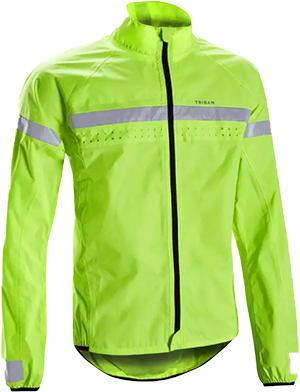
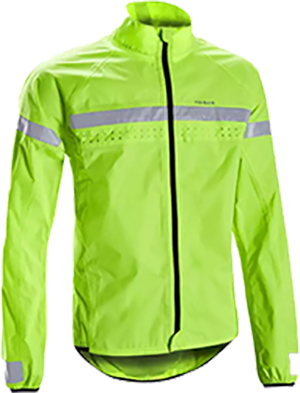
Change pictures size

diff --git a/index.html b/index.html
@@ -82,9 +82,11 @@
               <img src="../images/jackets/smaller-women-jackets/raincut-wtp.png"
                 alt="Picture of woman's jacket Raincut WTP">
             </div>
-            <h3 class="item__product-name">Raincut Wtp</h3>
-            <p class="item__product-price">999 nok</p>
-            <a href="#" title="Raincut Wtp" class="btn btn__show-item">Show Item</a>
+            <div>
+              <h3 class="item__product-name">Raincut Wtp</h3>
+              <p class="item__product-price">999 nok</p>
+              <a href="#" title="Raincut Wtp" class="btn btn__show-item">Show Item</a>
+            </div>
           </div>
 
           <div class="item hide show">
@@ -92,18 +94,22 @@
               <img src="../images/jackets/smaller-women-jackets/sailing-5000.png"
                 alt="Picture of woman's jacket Sailing 5000">
             </div>
-            <h3 class="item__product-name">Sailing 5000</h3>
-            <p class="item__product-price">1099 nok</p>
-            <a href="#" title="Sailing 5000" class="btn btn__show-item">Show Item</a>
+            <div>
+              <h3 class="item__product-name">Sailing 5000</h3>
+              <p class="item__product-price">1099 nok</p>
+              <a href="#" title="Sailing 5000" class="btn btn__show-item">Show Item</a>
+            </div>
           </div>
 
           <div class="item hide show">
             <div class="item__picture">
               <img src="../images/jackets/smaller-women-jackets/mh-9000.png" alt="Picture of woman's jacket Mh 9000">
             </div>
-            <h3 class="item__product-name">Raincut Wtp</h3>
-            <p class="item__product-price">799 nok</p>
-            <a href="#" title="Raincut Wtp" class="btn btn__show-item">Show Item</a>
+            <div>
+              <h3 class="item__product-name">Raincut Wtp</h3>
+              <p class="item__product-price">799 nok</p>
+              <a href="#" title="Raincut Wtp" class="btn btn__show-item">Show Item</a>
+            </div>
           </div>
 
           <div class="item hide show">
@@ -111,9 +117,11 @@
               <img src="../images/jackets/smaller-mens-jackets/offshore-900.png"
                 alt="Picture of man's jacket Offshore 900">
             </div>
-            <h3 class="item__product-name">Offshore 900</h3>
-            <p class="item__product-price">999 nok</p>
-            <a href="#" title="Offshore 900" class="btn btn__show-item">Show Item</a>
+            <div>
+              <h3 class="item__product-name">Offshore 900</h3>
+              <p class="item__product-price">999 nok</p>
+              <a href="#" title="Offshore 900" class="btn btn__show-item">Show Item</a>
+            </div>
           </div>
 
           <div class="item hide">
@@ -121,9 +129,11 @@
               <img src="../images/jackets/smaller-mens-jackets/nh-100-raincut.png"
                 alt="Picture of man's jacket Nh 100 Raincut">
             </div>
-            <h3 class="item__product-name">Nh 100 Raincut</h3>
-            <p class="item__product-price">799 nok</p>
-            <a href="#" title="Nh 100 Raincut" class="btn btn__show-item">Show Item</a>
+            <div>
+              <h3 class="item__product-name">Nh 100 Raincut</h3>
+              <p class="item__product-price">799 nok</p>
+              <a href="#" title="Nh 100 Raincut" class="btn btn__show-item">Show Item</a>
+            </div>
           </div>
 
           <div class="item hide">
@@ -131,45 +141,55 @@
               <img src="../images/jackets/smaller-mens-jackets/tour-jacket-outline.png"
                 alt="Picture of man's jacket Tour Jacket Outlne">
             </div>
-            <h3 class="item__product-name">Tour Outline</h3>
-            <p class="item__product-price">1099 nok</p>
-            <a href="#" title="Tour Outline" class="btn btn__show-item">Show Item</a>
+            <div>
+              <h3 class="item__product-name">Tour Outline</h3>
+              <p class="item__product-price">1099 nok</p>
+              <a href="#" title="Tour Outline" class="btn btn__show-item">Show Item</a>
+            </div>
           </div>
 
           <div class="item hide">
             <div class="item__picture">
               <img src="../images/jackets/smaller-raincoats/raincoat-forza.png" alt="Picture of Raincoat Forza">
             </div>
-            <h3 class="item__product-name">Raincoat Forza</h3>
-            <p class="item__product-price">599 nok</p>
-            <a href="#" title="Raincoat Forza" class="btn btn__show-item">Show Item</a>
+            <div>
+              <h3 class="item__product-name">Raincoat Forza</h3>
+              <p class="item__product-price">599 nok</p>
+              <a href="#" title="Raincoat Forza" class="btn btn__show-item">Show Item</a>
+            </div>
           </div>
 
           <div class="item hide">
             <div class="item__picture">
               <img src="../images/jackets/smaller-raincoats/poncho-raincoat.png" alt="Picture of Poncho Raincoat">
             </div>
-            <h3 class="item__product-name">Poncho Raincoat</h3>
-            <p class="item__product-price">500 nok</p>
-            <a href="#" title="Poncho Raincoat" class="btn btn__show-item">Show Item</a>
+            <div>
+              <h3 class="item__product-name">Poncho Raincoat</h3>
+              <p class="item__product-price">500 nok</p>
+              <a href="#" title="Poncho Raincoat" class="btn btn__show-item">Show Item</a>
+            </div>
           </div>
 
           <div class="item hide">
             <div class="item__picture">
               <img src="../images/jackets/smaller-raincoats/poncho-orange.png" alt="Picture of Poncho Orange">
             </div>
-            <h3 class="item__product-name">Poncho Orange</h3>
-            <p class="item__product-price">499 nok</p>
-            <a href="#" title="Poncho Orange" class="btn btn__show-item">Show Item</a>
+            <div>
+              <h3 class="item__product-name">Poncho Orange</h3>
+              <p class="item__product-price">499 nok</p>
+              <a href="#" title="Poncho Orange" class="btn btn__show-item">Show Item</a>
+            </div>
           </div>
 
           <div class="item hide">
             <div class="item__picture">
               <img src="../images/jackets/smaller-raincoats/raincoat-triban.png" alt="Picture of Raincoat Triban">
             </div>
-            <h3 class="item__product-name">Raincoat Triban</h3>
-            <p class="item__product-price">749 nok</p>
-            <a href="#" title="Raincoat Triban" class="btn btn__show-item">Show Item</a>
+            <div>
+              <h3 class="item__product-name">Raincoat Triban</h3>
+              <p class="item__product-price">749 nok</p>
+              <a href="#" title="Raincoat Triban" class="btn btn__show-item">Show Item</a>
+            </div>
           </div>
 
           <div class="item hide">
@@ -177,9 +197,11 @@
               <img src="../images/jackets/smaller-mens-jackets/rain-jacket-FH500.png"
                 alt="Picture of Rain Jacket Fh 500">
             </div>
-            <h3 class="item__product-name">Rain Jacket Fh 500</h3>
-            <p class="item__product-price">899 nok</p>
-            <a href="#" title="Rain Jacket Fh 500" class="btn btn__show-item">Show Item</a>
+            <div>
+              <h3 class="item__product-name">Rain Jacket Fh 500</h3>
+              <p class="item__product-price">899 nok</p>
+              <a href="#" title="Rain Jacket Fh 500" class="btn btn__show-item">Show Item</a>
+            </div>
           </div>
 
           <div class="item hide">
@@ -187,9 +209,11 @@
               <img src="../images/jackets/smaller-mens-jackets/rain-jacket-quechua.png"
                 alt="Picture of Rain Jacket Quechua">
             </div>
-            <h3 class="item__product-name">Rain Jacket Quechua</h3>
-            <p class="item__product-price">799 nok</p>
-            <a href="#" title="Rain Jacket Quechua" class="btn btn__show-item">Show Item</a>
+            <div>
+              <h3 class="item__product-name">Rain Jacket Quechua</h3>
+              <p class="item__product-price">799 nok</p>
+              <a href="#" title="Rain Jacket Quechua" class="btn btn__show-item">Show Item</a>
+            </div>
           </div>
 
         </div>

diff --git a/js/product-generator.js b/js/product-generator.js
@@ -3,15 +3,16 @@
 const productsWrapper = document.querySelector('.products-wrapper');
 
 for (let product of products) {
-  let productLink = `<a href="#" title="Raincut Wtp" class="btn btn__show-item">Show Item</a>`;
+  let productLink = `<a href="#" title="${product.name}" class="btn btn__show-item">Show Item</a>`;
   productsWrapper.innerHTML +=
     `<div class="item">
-  <div class="item__picture">
-    <img src="${product.image}"
-      alt="Picture of ${product.name}">
-  </div>
-  <h3 class="item__product-name">${product.name}</h3>
-  <p class="item__product-price">${product.price} nok</p>
-  ${productLink}
-</div>`
+      <div class="item__picture">
+        <img src="${product.image}" alt="Picture of ${product.name}">
+      </div>
+      <div>
+        <h3 class="item__product-name">${product.name}</h3>
+        <p class="item__product-price">${product.price} nok</p>
+        ${productLink}
+      </div>  
+  </div>`
 }

diff --git a/css/global/media-queries.css b/css/global/media-queries.css
@@ -4,9 +4,31 @@
   .page-in-progress h1 {
     font-size: 2.7rem;
   }
+
+  .search-container {
+    padding: 5px;
+  }
+
+  .search-container input, 
+  .search-container button, 
+  .search-container button i, 
+  .btn_log-in {
+    font-size: 0.9rem;
+  }
 }
 
 @media (min-width:400px) {
+  .search-container {
+    padding: 5px 10px;
+  }
+
+  .search-container input, 
+  .search-container button, 
+  .search-container button i, 
+  .btn_log-in {
+    font-size: 1rem;
+  }
+
   .products-wrapper {
     grid-template-columns: 1fr 1fr;
   }
@@ -139,9 +161,6 @@
     padding-top: 0;
   }
 
-  /* .contact map {
-    height: 70vh;
-  } */
 }
 
 @media (min-width: 700px) {
@@ -234,6 +253,10 @@
   }
   .choose-jacket .products-wrapper {
     grid-template-columns: 1fr 1fr 1fr 1fr 1fr;
+  }
+
+  .btn__show-item {
+    padding: 3px 15px;
   }
 
 }

diff --git a/css/global/nav.css b/css/global/nav.css
@@ -81,9 +81,9 @@ a.active,
   order: 1;
   flex: 2;
   background-color: var(--secondary-color);
-  padding: 5px 10px;
   border-radius: 5px;
   justify-content: space-between;
+  padding: 5px;
 }
 
 .search-container input::placeholder {
@@ -101,7 +101,7 @@ a.active,
   border: none;
   background-color: var(--secondary-color);
   color:  var(--primary-color);
-  font-size: 1rem;
+  font-size: 0.7rem;
   padding: 0;
 }
 

diff --git a/css/home-page/hp-products.css b/css/home-page/hp-products.css
@@ -75,6 +75,7 @@
   font-size: 1.2rem;
   box-shadow: var(--primary-shadow);
   transition: .2s;
+  width: 100%;
 }
 
 .hide {
@@ -91,14 +92,15 @@
 }
 
 .item__picture {
-  height: 100%;
+  width: 100%;
+  height: 250px;
   text-align: center;
 }
 
 .item__picture img {
-  object-fit: cover;
-  object-position: top;
-  width: 90%;
+  object-fit: contain;
+  object-position: center;
+  width: 100%;
   height: 100%;
 }
 
